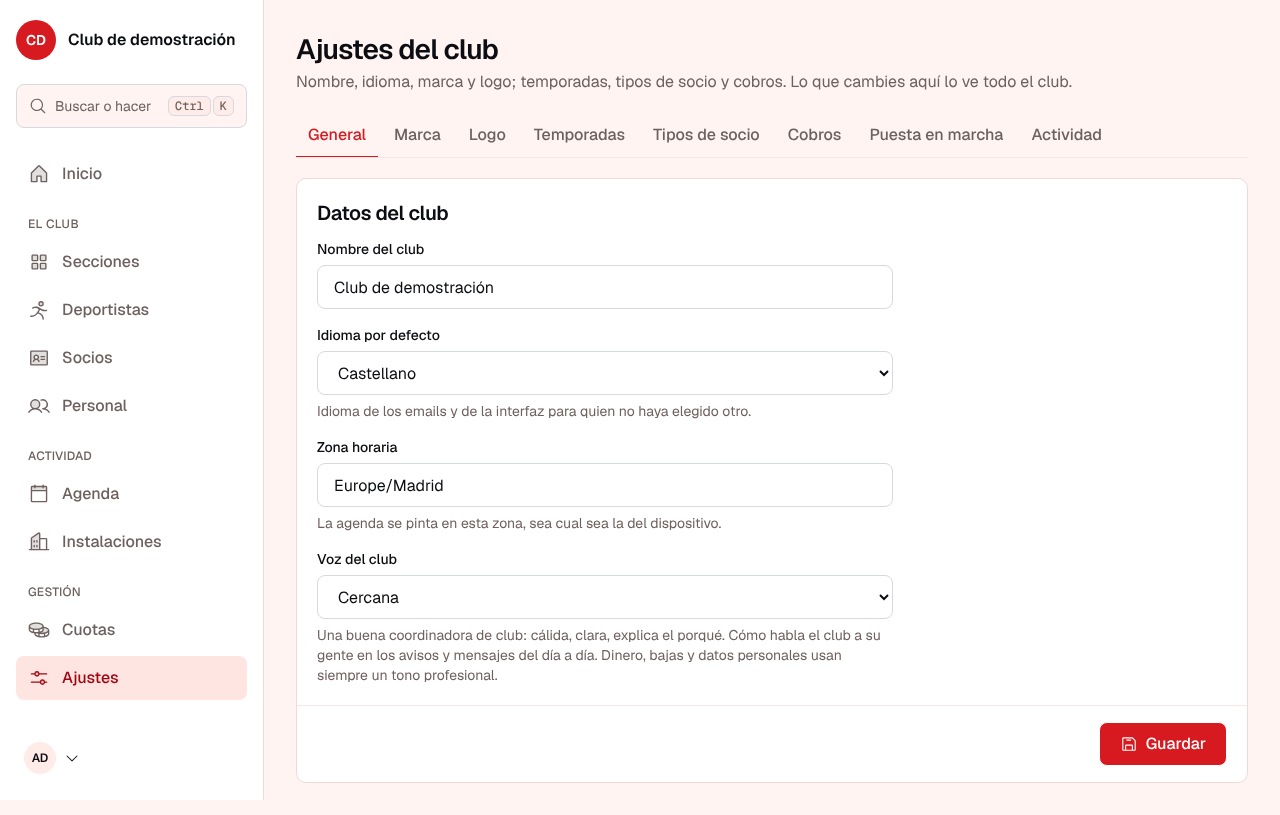
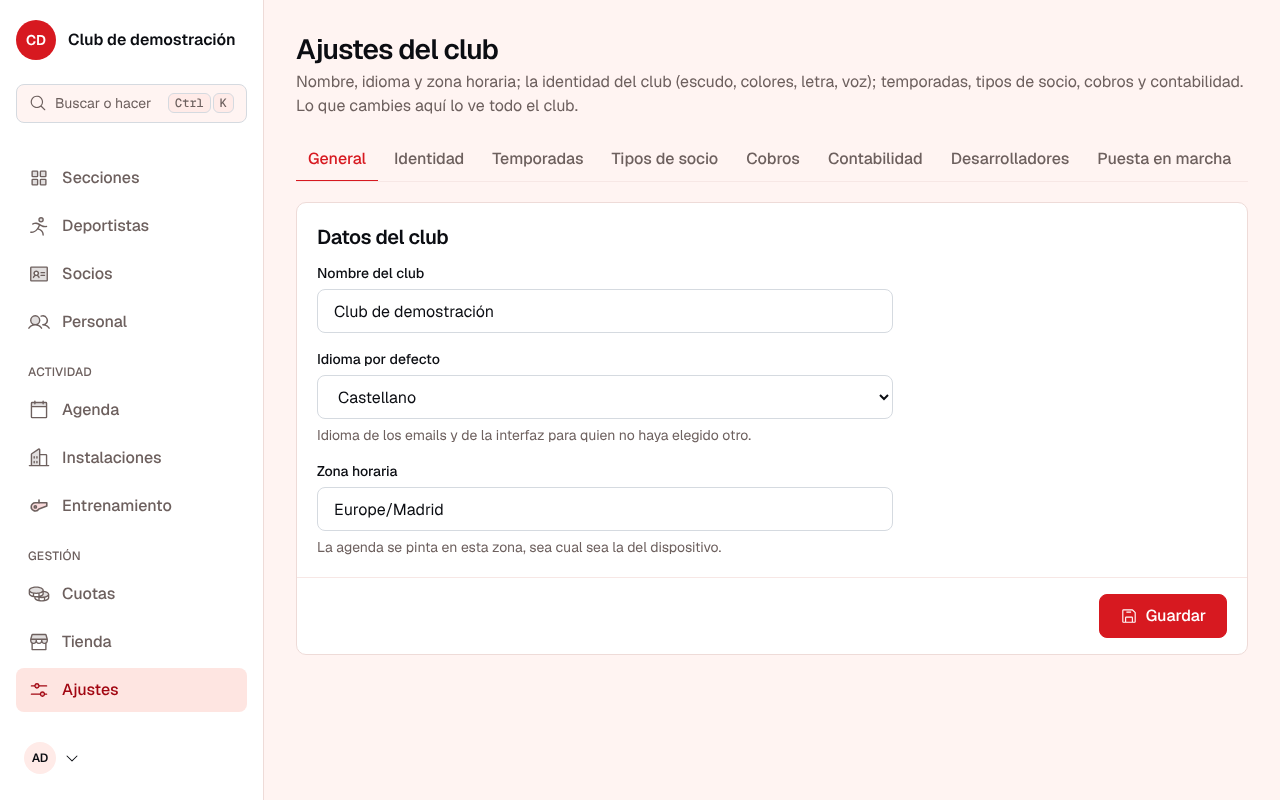
Identidad del club: vista previa no interactiva y capturas de la pestaña nueva
La muestra de la portada y la tarjeta en Identidad es inerte: se ve, pero no se toca ni se
recorre con el teclado. Capturas de escritorio y móvil de la pestaña, la vista previa en directo
y el inicio con la identidad guardada; fuera las de "Marca" y "Logo".

Claude-Session: https://claude.ai/code/session_018wojTo1wm17zb7K4ZvYB1T

diff --git a/apps/web/src/routes/club/settings-identity.tsx b/apps/web/src/routes/club/settings-identity.tsx
@@ -618,7 +618,8 @@ function PreviewCard() {
   const firstName = me.user.name.split(" ")[0] ?? me.user.name;
   return (
     <Card title={t("title")} description={t("hint")}>
-      <div className="grid gap-4 lg:grid-cols-[minmax(0,3fr)_minmax(0,2fr)] lg:items-stretch">
+      {/* Es una muestra: se ve, pero no se toca ni se recorre con el teclado. */}
+      <div inert className="grid gap-4 lg:grid-cols-[minmax(0,3fr)_minmax(0,2fr)] lg:items-stretch">
         <ClubHero
           clubName={look.name}
           crest={<Crest name={look.name} logoUrl={look.logoUrl} size="lg" />}

diff --git a/docs/capturas/README.md b/docs/capturas/README.md
@@ -1,4 +1,4 @@
-# Capturas de la interfaz (Bloques 14 a 26, pizarra animada, tienda, pasarela y contabilidad)
+# Capturas de la interfaz (Bloques 14 a 26, pizarra animada, tienda, pasarela y contabilidad, identidad del club)
 
 Capturas que generan las pruebas de interfaz (`pnpm test:ui`) contra la API real con base embebida, con el front de Vite + React + Tailwind sobre el design system del producto (`packages/design`, ADR 0027). Escritorio a 1280x800; móvil, Pixel 7. La fuente viva es el artefacto `capturas-interfaz` de CI; esta carpeta es la foto de la revisión del club completo (ADR 0031), con el design system 1.3: todo botón lleva el icono de su acción (rueda dentada para editar, cubo de basura rojo para eliminar, más para añadir); la fila es el objeto (se abre tocándola, con acciones como iconos silenciosos sin borde); la paleta de mandos ⌘K encuentra personas, equipos, pantallas y acciones; y la plantilla de un equipo se ve como un tablero por posición: secciones por deporte, socios, agenda e instalaciones, cuotas y "ver como", sobre lo que ya había de los bloques 11 a 13 (ADR 0028, 0029 y 0030), más el alcance por cargo y la gestión de acceso por rol del Bloque 19 (ADR 0033): el cuerpo técnico, la dirección y la fisio ven solo su parte del club, y "Personal" gana la pestaña "Acceso", y el partido en directo del Bloque 20 (ADR 0034): configuración del motor por sección, consola en la banda a pantalla completa y en tres zonas con el banquillo arrastrable (ADR 0037), estadísticas e histórico, y el entrenamiento de los bloques 21 a 26 (ADR 0039): semana del equipo con "A tener en cuenta", sesión por bloques con su cierre y modo pista, biblioteca con pizarra, carga, enfermería, salud y "Mi bienestar".
 
@@ -238,19 +238,19 @@ Cada club vive en una ruta del mismo dominio: el club demo en `/demo`, el negoci
 
 ![Ajustes del club: datos generales](escritorio-20-ajustes-general.png)
 
-### Ajustes del club: colores de marca con vista previa del motor de tema
+### Ajustes del club, Identidad (ADR 0043): vista previa, escudo, paletas y colores, tipografía, botones, iconos, fondo, portada, navegación, esquinas, lema y voz
 
-![Ajustes del club: colores de marca](escritorio-21-ajustes-marca.png)
+![Ajustes del club: identidad](escritorio-21-ajustes-identidad.png)
 
-### Ajustes del club: la marca cambia al guardar
+### Identidad: vista previa en directo en toda la app antes de guardar (letra deportiva, navegación del club, portada a rayas, voz vestuario y lema)
 
-![Ajustes del club: marca guardada](escritorio-22-ajustes-marca-guardada.png)
+![Ajustes del club: identidad en vista previa](escritorio-22-ajustes-identidad-vista-previa.png)
 
-### Ajustes del club: subir logo
+### Inicio del club con su identidad guardada: habla con su voz y lleva su lema
 
-![Ajustes del club: subir logo](escritorio-23-ajustes-logo.png)
+![Inicio con la identidad del club](escritorio-23-inicio-identidad-propia.png)
 
-### Ajustes del club: logo subido y visible en la cabecera
+### Ajustes del club: escudo subido y visible en la navegación
 
 ![Ajustes del club: logo subido](escritorio-24-ajustes-logo-subido.png)
 
@@ -652,9 +652,17 @@ Las mismas pantallas en un móvil, con la forma envolvente del design system: ca
 
 ![Ajustes del club: datos generales (móvil)](movil-20-ajustes-general.png)
 
-### Ajustes del club: colores de marca con vista previa
+### Ajustes del club: identidad
 
-![Ajustes del club: colores de marca (móvil)](movil-21-ajustes-marca.png)
+![Ajustes del club: identidad (móvil)](movil-21-ajustes-identidad.png)
+
+### Identidad: vista previa en directo
+
+![Ajustes del club: identidad en vista previa (móvil)](movil-22-ajustes-identidad-vista-previa.png)
+
+### Inicio con la identidad del club
+
+![Inicio con la identidad del club (móvil)](movil-23-inicio-identidad-propia.png)
 
 ### Inicio operativo
 
